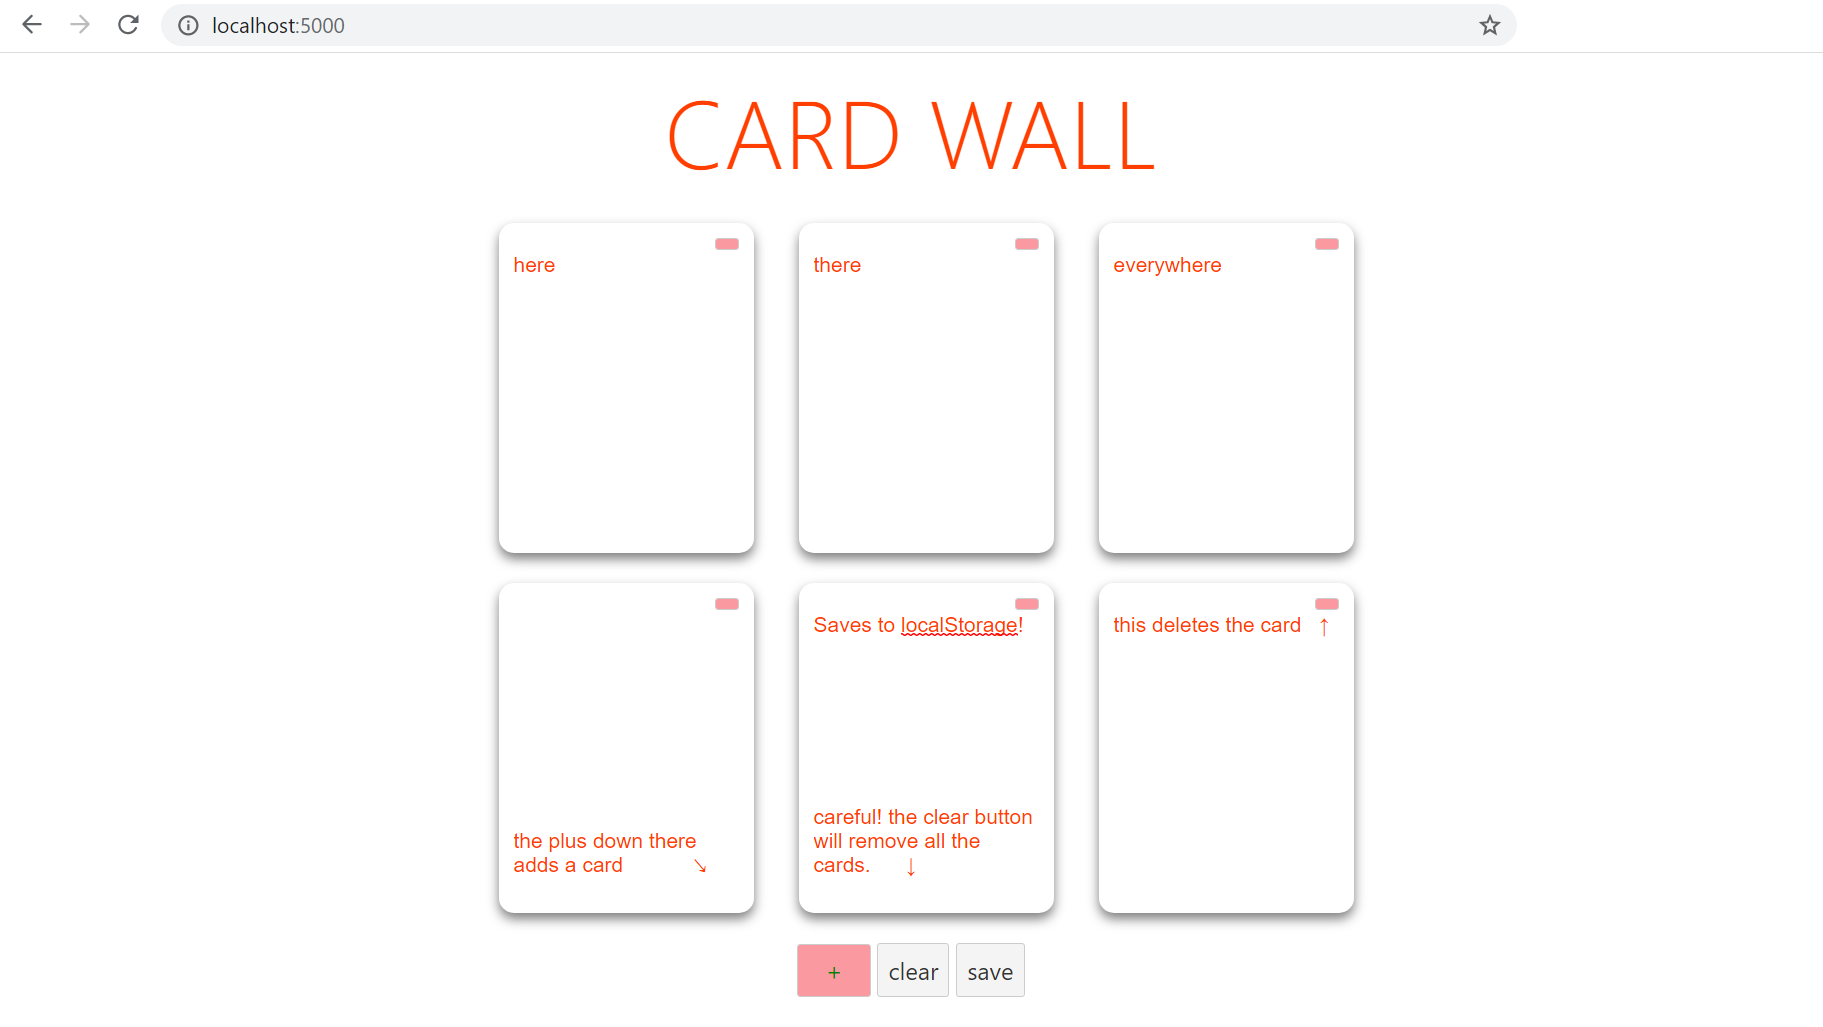
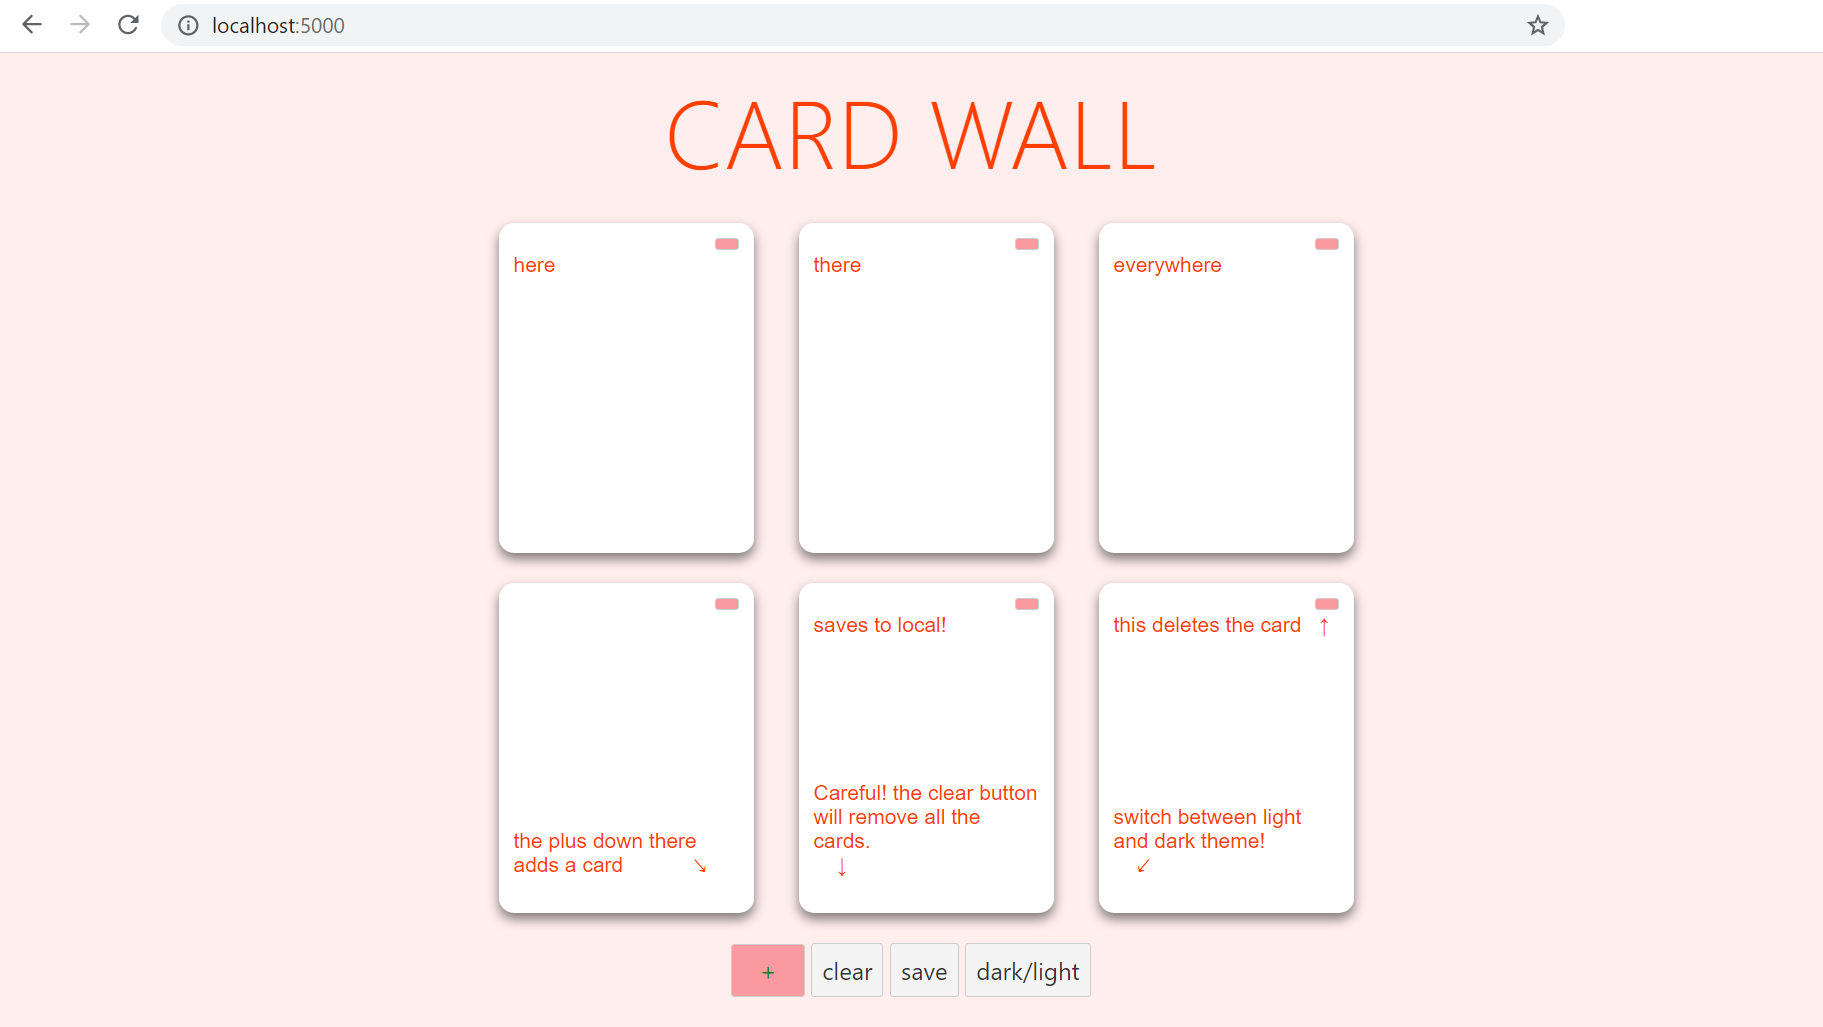
added preview to readme

diff --git a/src/App.svelte b/src/App.svelte
@@ -1,15 +1,17 @@
 <script>
 	import {fade} from 'svelte/transition';
 	import {scale} from 'svelte/transition';
+	
 	if (localStorage.cards == undefined) {
 		localStorage.cards = [];
 	}
 	var cards = JSON.parse(localStorage.cards);
+	
 	if (localStorage.dark_mode == undefined) {
 		localStorage.dark_mode = false;
 	}
 	var dark_mode = JSON.parse(localStorage.dark_mode);
-	console.log(dark_mode);
+	
 	if (dark_mode == true) {
 		window.document.body.classList.toggle('dark-mode');
 	}

diff --git a/public/index.html b/public/index.html
@@ -4,7 +4,7 @@
 	<meta charset='utf-8'>
 	<meta name='viewport' content='width=device-width,initial-scale=1'>
 
-	<title>Svelte app</title>
+	<title>Svelte pin board</title>
 
 	<link rel='icon' type='image/png' href='/favicon.png'>
 	<link rel='stylesheet' href='/global.css'>

diff --git a/README.md b/README.md
@@ -8,3 +8,6 @@ An app to post stylish messages to a tab
 - run 'npm install'
 - run 'npm run dev'
 - visit 'localhost:5000' in a browser of your choice
+
+## preview
+(docs/preview.png)
